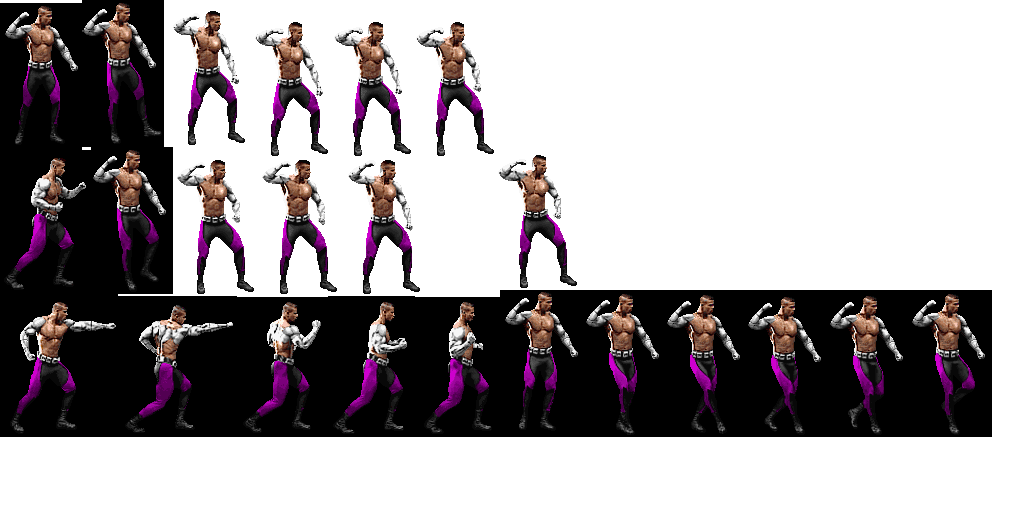
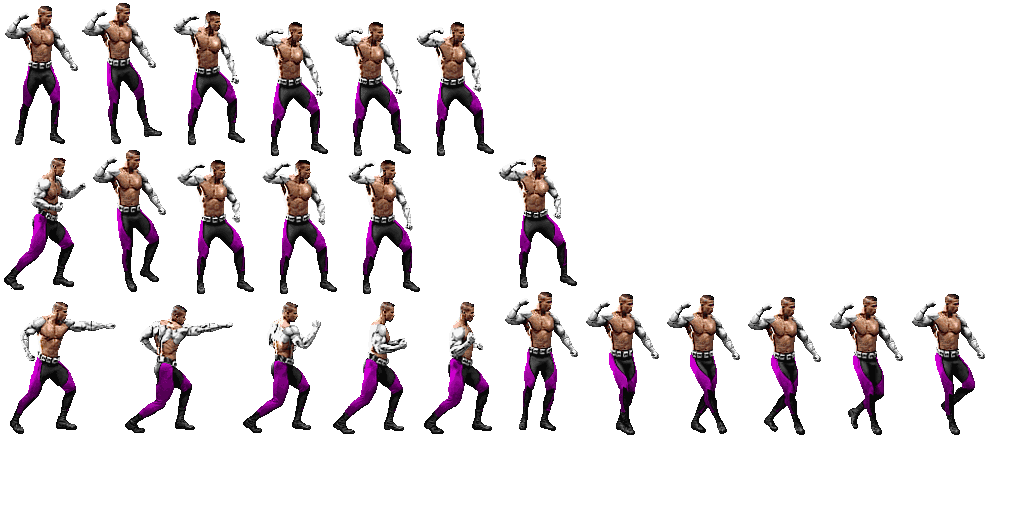
jax stance assets fix, basic animations and player state

Changed region(s): [[0.0, 0.0, 0.9688, 0.875]]

diff --git a/core/src/main/java/pl/manco/core/GameScreen.java b/core/src/main/java/pl/manco/core/GameScreen.java
@@ -5,6 +5,7 @@ import com.badlogic.gdx.Input;
 import com.badlogic.gdx.ScreenAdapter;
 import com.badlogic.gdx.graphics.Texture;
 import com.badlogic.gdx.graphics.g2d.SpriteBatch;
+import com.badlogic.gdx.graphics.g2d.TextureRegion;
 
 import java.util.function.BiConsumer;
 
@@ -15,6 +16,8 @@ public class GameScreen extends ScreenAdapter {
     private Texture background;
     private SpriteBatch batch;
     private Player player;
+
+    private float elapsedTime;
 
     @Override
     public void show() {
@@ -27,24 +30,37 @@ public class GameScreen extends ScreenAdapter {
 
     @Override
     public void render(float delta) {
+        elapsedTime += delta;
         queryInput();
         batch.begin();
         batch.draw(background, 0, 0);
-        batch.draw(player.image(), player.getPosition().x(), player.getPosition().y());
+        TextureRegion frame = player.image().getKeyFrame(elapsedTime);
+        batch.draw(frame, player.getPosition().x(), player.getPosition().y());
         batch.end();
     }
 
     private void queryInput() {
+        player.setState(State.STANCE);
+
         movePlayerIfPressed(Input.Keys.LEFT);
         movePlayerIfPressed(Input.Keys.RIGHT);
         movePlayerIfPressed(Input.Keys.UP);
         movePlayerIfPressed(Input.Keys.DOWN);
+
+        punchIfPressed(Input.Keys.Q);
     }
 
     private void movePlayerIfPressed(int key) {
-        final int step = 5;
+        final int step = 3;
         if (Gdx.input.isKeyPressed(key)) {
             inputToMovement(key).accept(player.getPosition(), step);
+            player.setState(State.WALK);
+        }
+    }
+
+    private void punchIfPressed(int key) {
+        if (Gdx.input.isKeyPressed(key)) {
+            player.setState(State.PUNCH);
         }
     }
 

diff --git a/core/src/main/java/pl/manco/core/Player.java b/core/src/main/java/pl/manco/core/Player.java
@@ -1,21 +1,34 @@
 package pl.manco.core;
 
-import com.badlogic.gdx.Gdx;
+import com.badlogic.gdx.graphics.g2d.Animation;
 import com.badlogic.gdx.graphics.g2d.TextureAtlas;
-import com.badlogic.gdx.graphics.g2d.TextureRegion;
+import com.google.common.collect.ImmutableMap;
+
+import java.util.Map;
 
 public abstract class Player {
 
-    private final TextureRegion image;
+    private final Map<State, Animation> animations;
+
     private final Position position = new Position();
 
+    private State state = State.STANCE;
+
     public Player(String texturesPackName) {
-        TextureAtlas textures = new TextureAtlas(Gdx.files.internal("chars/" + texturesPackName + ".pack"));
-        image = textures.findRegion("stance1");
+        final TextureAtlas textures = new TextureAtlas("chars/" + texturesPackName + ".pack");
+        animations = ImmutableMap.of(
+            State.STANCE, Animations.loop(0.10f, Animations.regions(textures, "stance", 1, 8)),
+            State.WALK, Animations.loop(0.10f, Animations.regions(textures, "walk", 1, 9)),
+            State.PUNCH, Animations.loop(0.08f, Animations.regions(textures, "punch", 1, 6))
+            );
     }
 
-    public TextureRegion image() {
-        return image;
+    public Animation image() {
+        return animations.get(state);
+    }
+
+    public void setState(State state) {
+        this.state = state;
     }
 
     public Position getPosition() {

diff --git a/core/src/main/java/pl/manco/core/Animations.java b/core/src/main/java/pl/manco/core/Animations.java
@@ -1,0 +1,28 @@
+package pl.manco.core;
+
+import com.badlogic.gdx.graphics.g2d.Animation;
+import com.badlogic.gdx.graphics.g2d.TextureAtlas;
+import com.badlogic.gdx.graphics.g2d.TextureRegion;
+
+import java.util.function.IntFunction;
+import java.util.stream.IntStream;
+
+public class Animations {
+
+    public static Animation loop(float frameDuration, TextureRegion ...keyFrames) {
+        final Animation animation = new Animation(frameDuration, keyFrames);
+        animation.setPlayMode(Animation.PlayMode.LOOP);
+        return animation;
+    }
+
+    public static TextureRegion[] regions(TextureAtlas atlas, String name, int start, int end) {
+        return IntStream.rangeClosed(start, end)
+                .mapToObj(getRegion(atlas, name))
+                .toArray(TextureRegion[]::new);
+
+    }
+
+    private static IntFunction<TextureRegion> getRegion(TextureAtlas atlas, String name) {
+        return i -> atlas.findRegion(name+i);
+    }
+}

diff --git a/core/src/main/java/pl/manco/core/Main.java b/core/src/main/java/pl/manco/core/Main.java
@@ -1,14 +1,8 @@
 package pl.manco.core;
 
-import com.badlogic.gdx.ApplicationListener;
 import com.badlogic.gdx.Game;
-import com.badlogic.gdx.Gdx;
-import com.badlogic.gdx.Screen;
-import com.badlogic.gdx.graphics.GL30;
 
 public class Main extends Game {
-
-	private final Screen game = new GameScreen();
 
     @Override
     public void create() {

diff --git a/core/src/main/java/pl/manco/core/State.java b/core/src/main/java/pl/manco/core/State.java
@@ -1,0 +1,5 @@
+package pl.manco.core;
+
+public enum State {
+    STANCE, WALK, PUNCH
+}
